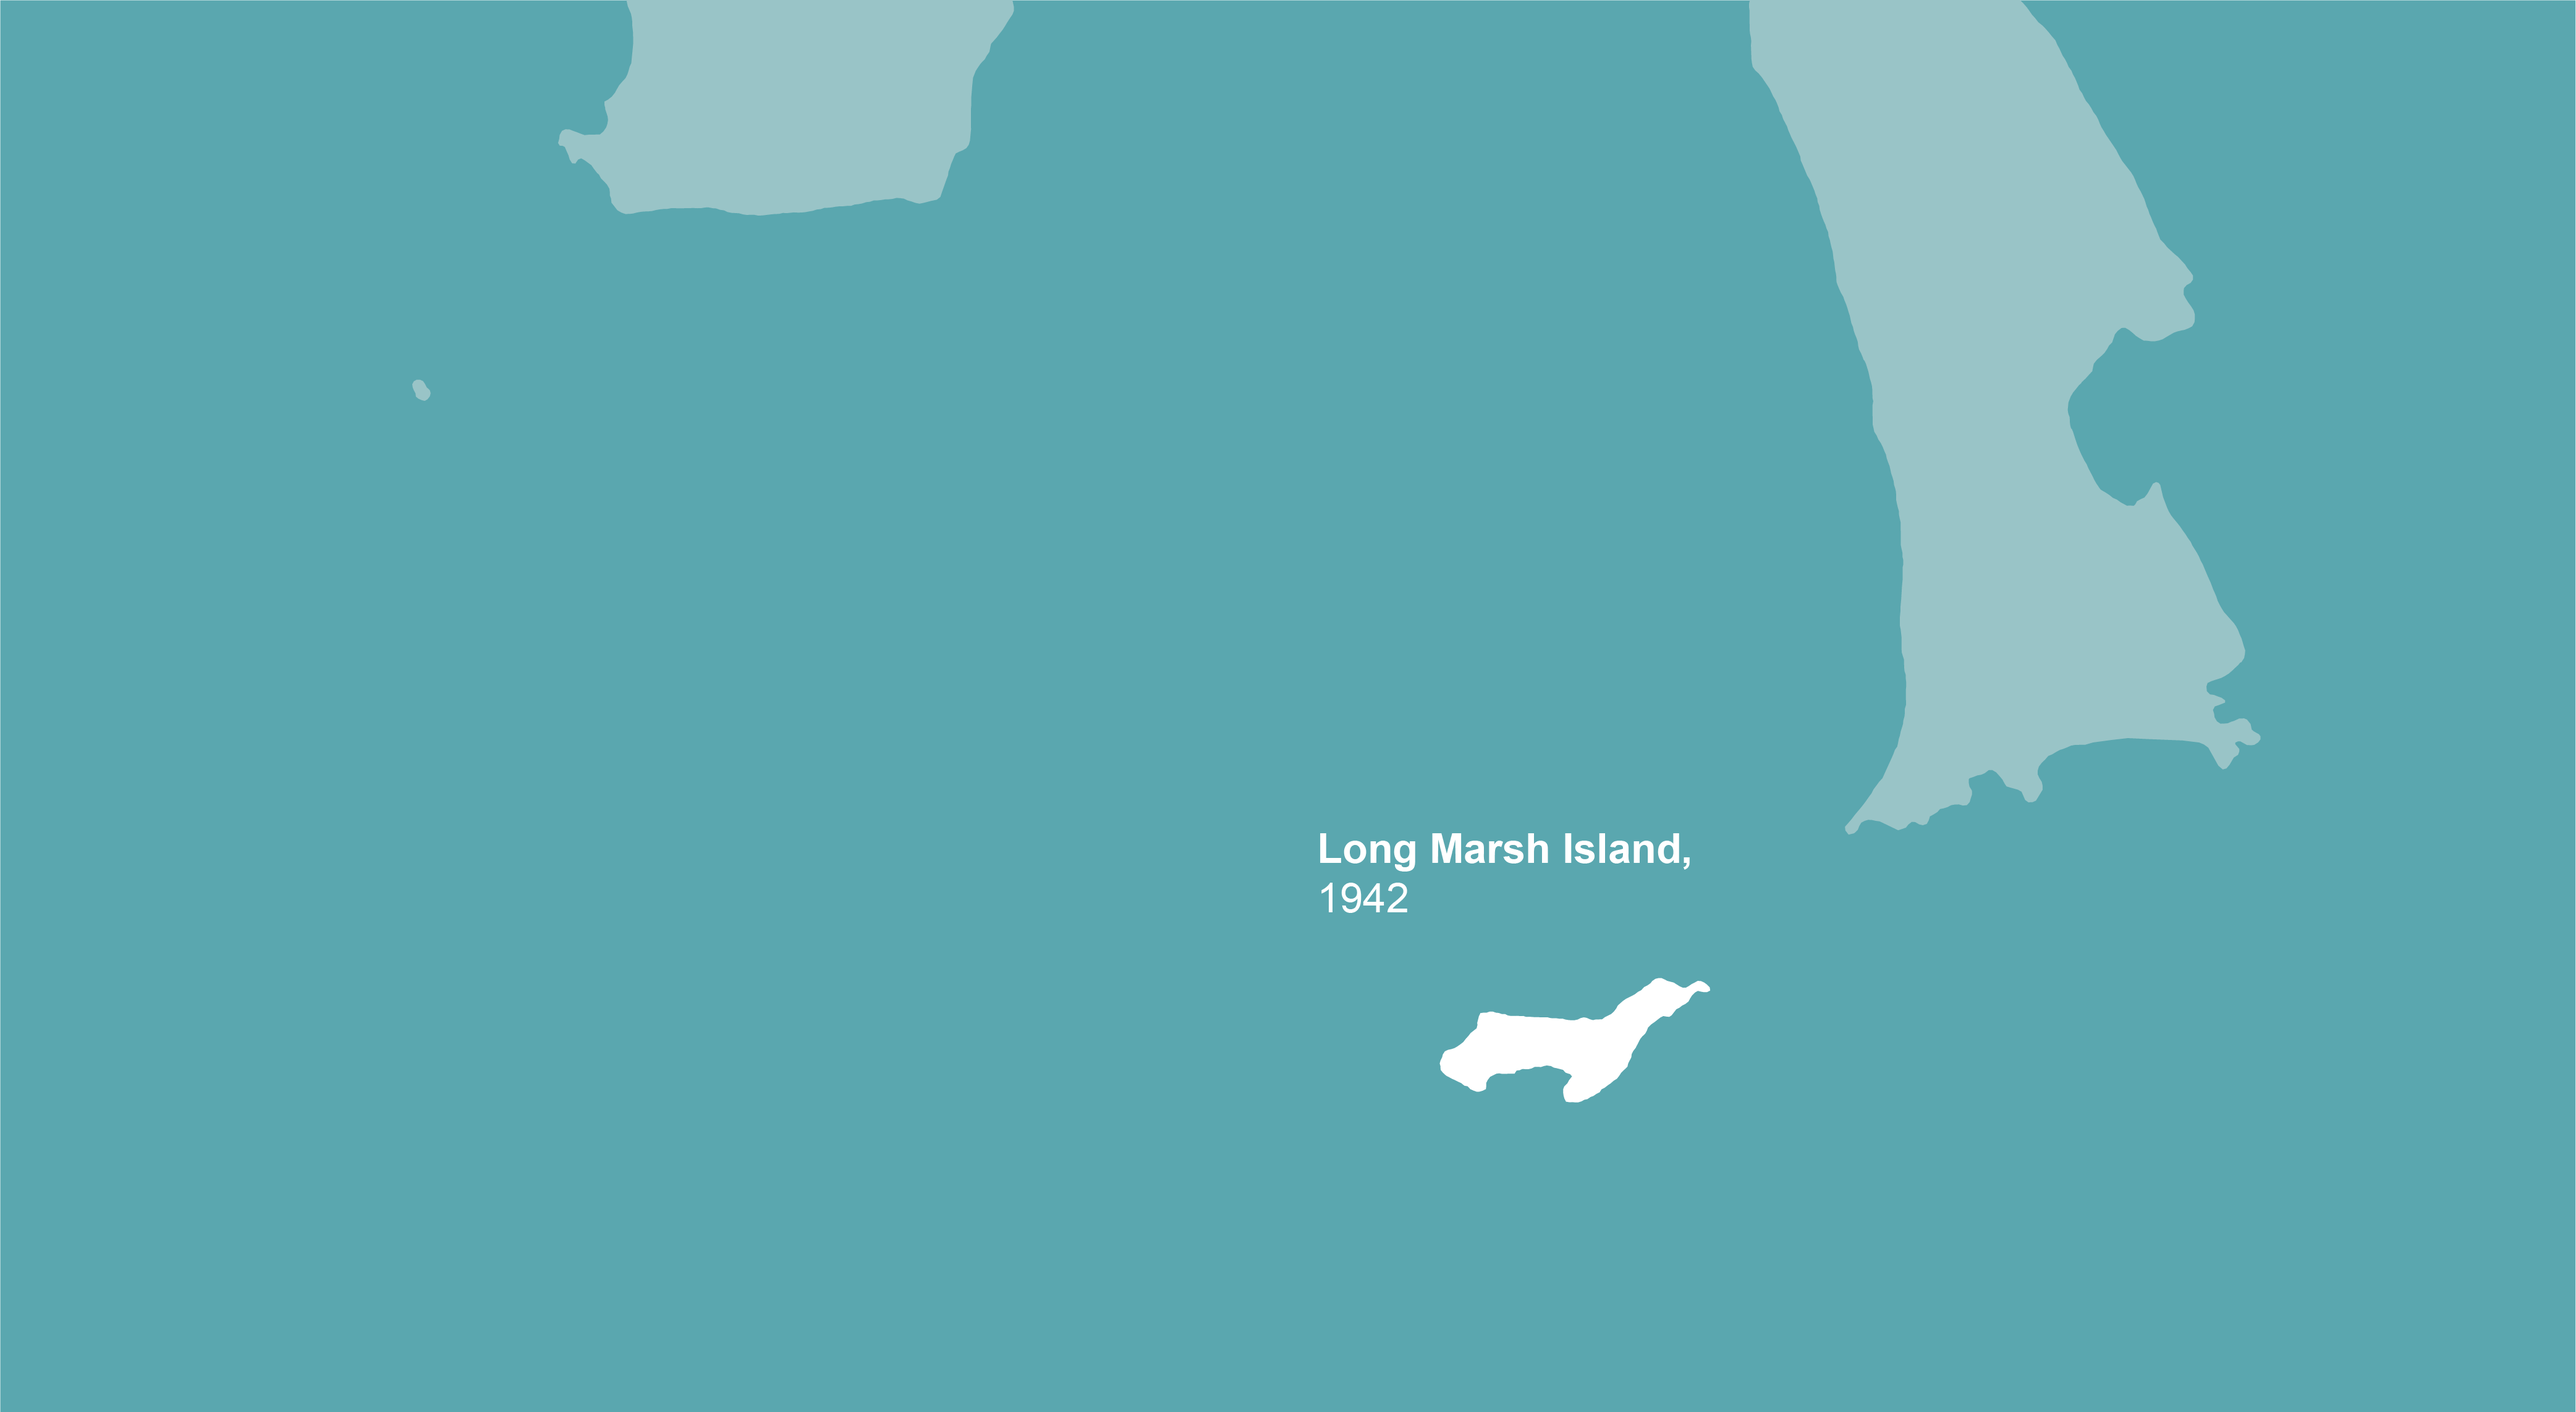
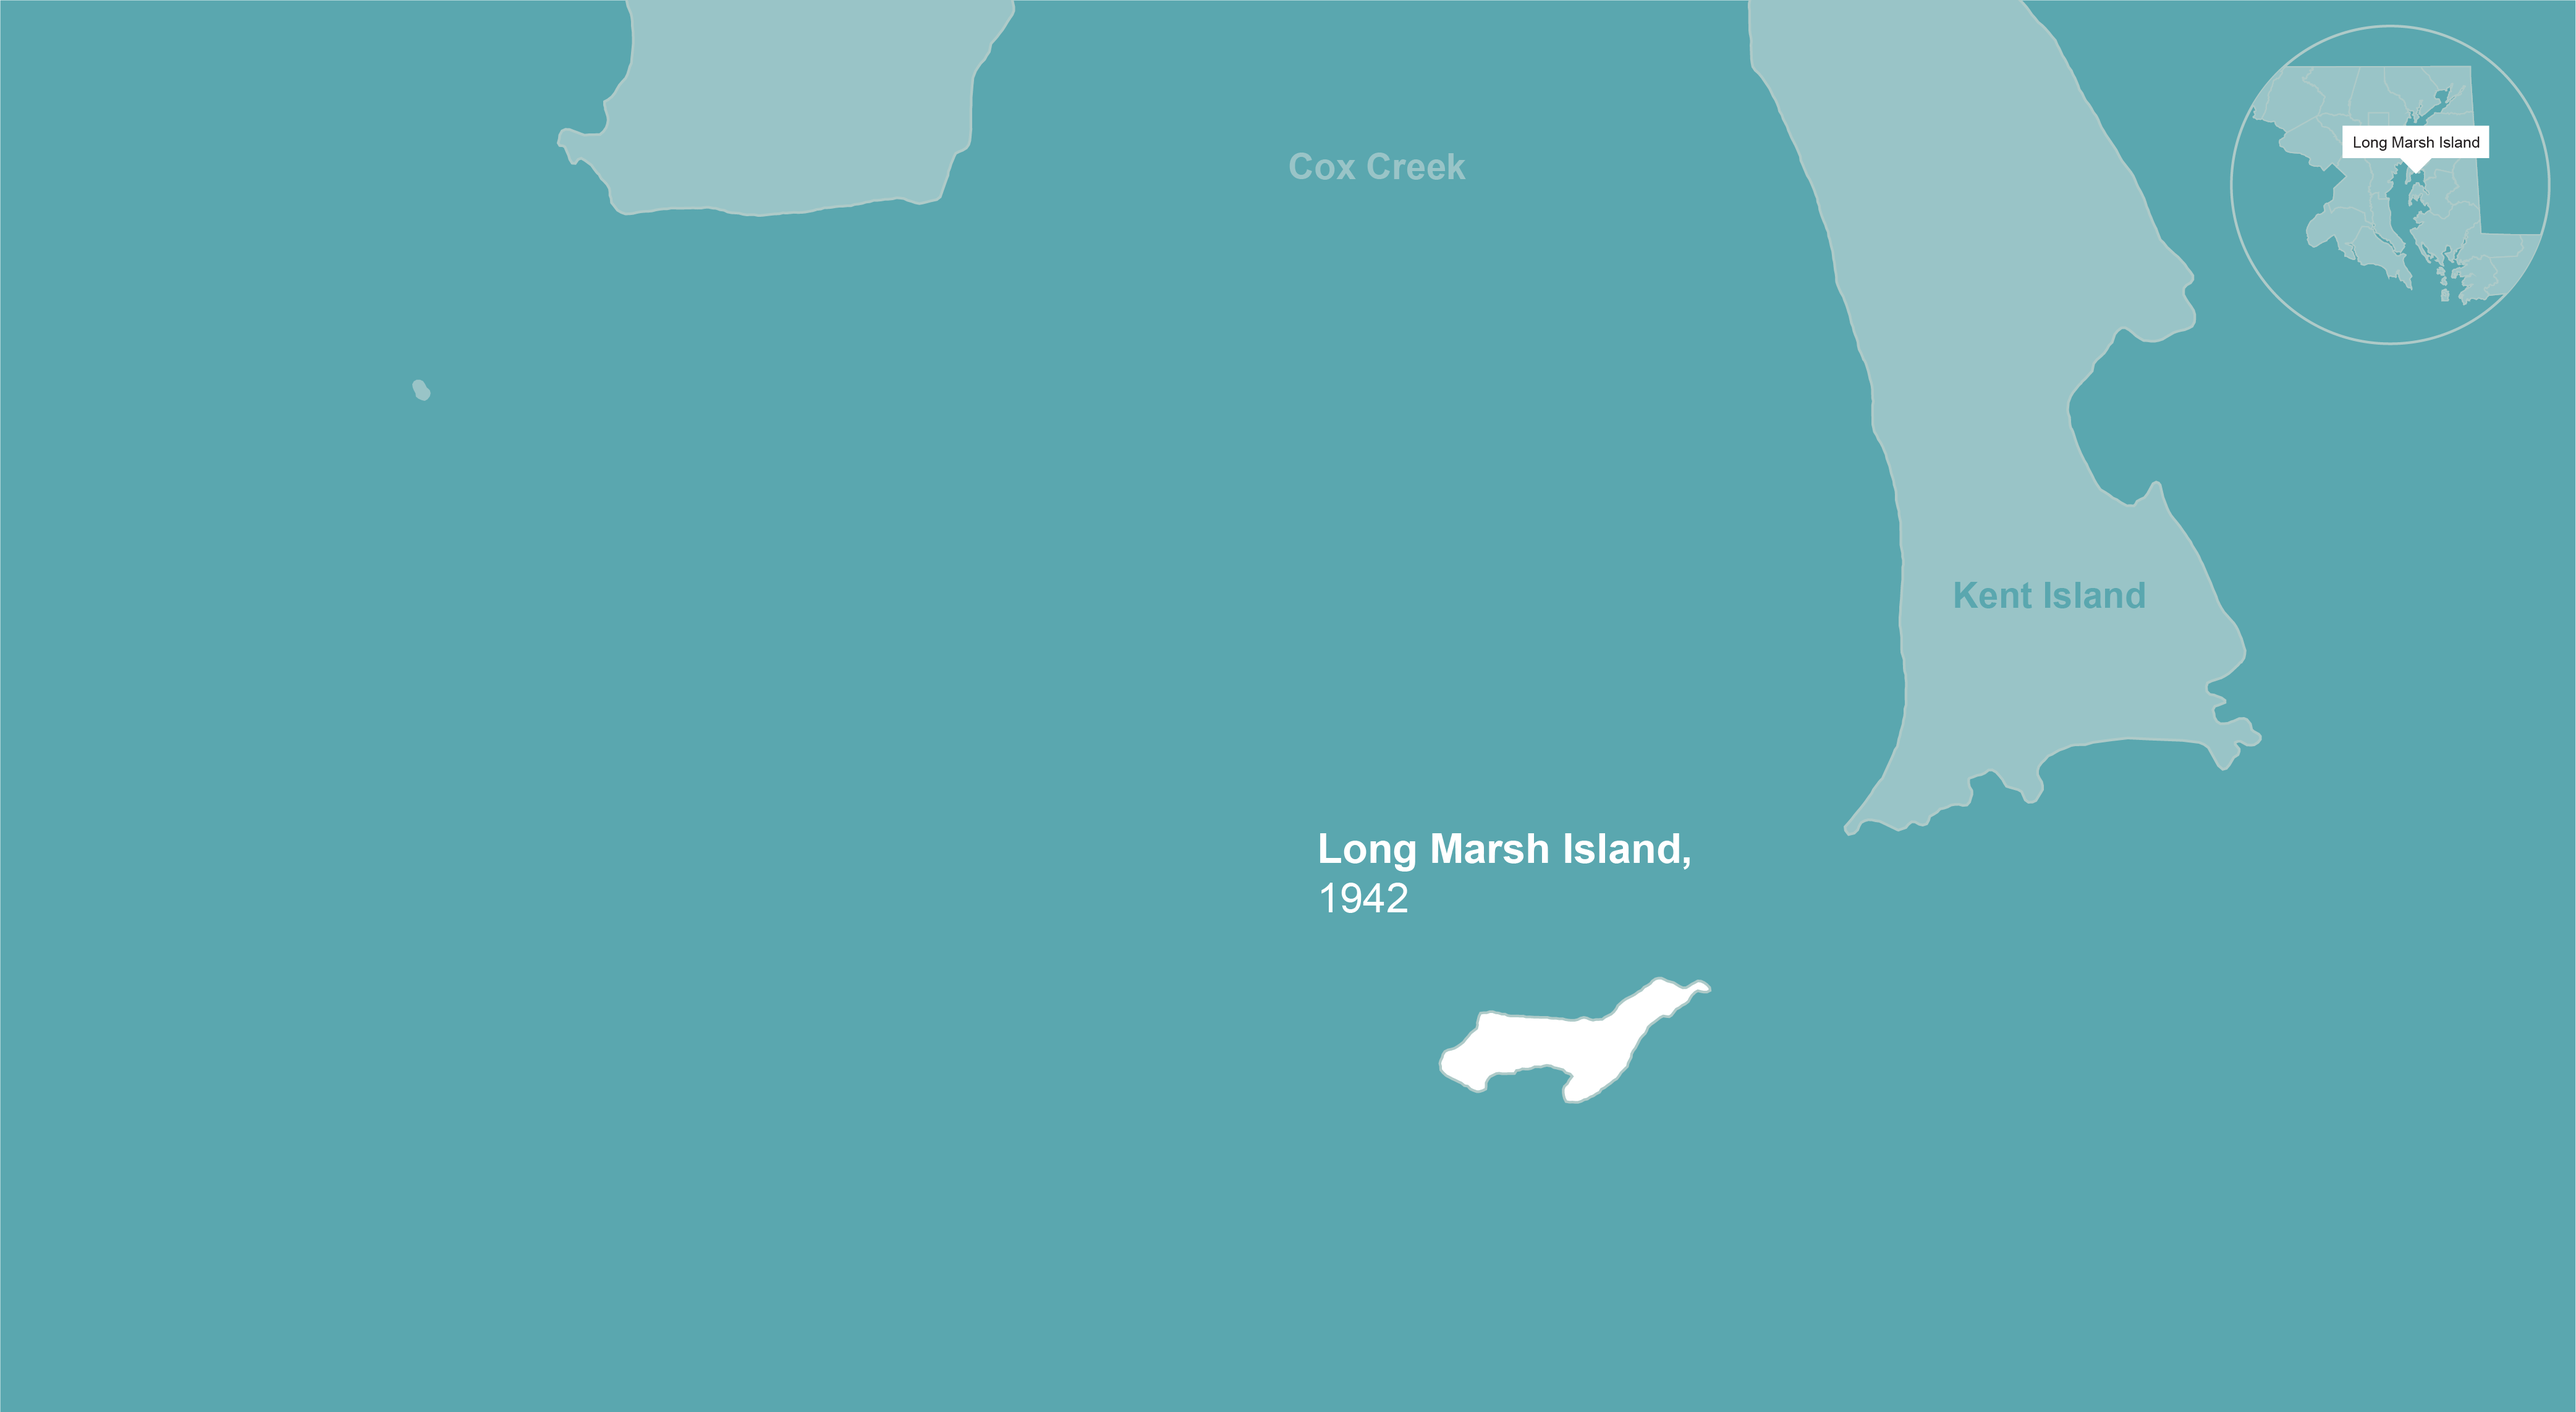
edited maps; added first portion of body copy

Changed region(s): [[0.8733, 0.0311, 0.9981, 0.2174], [0.7486, 0.4038, 0.8421, 0.4348], [0.499, 0.0932, 0.5614, 0.1242]]

diff --git a/index.html b/index.html
@@ -24,7 +24,13 @@
     <img id="head" src="assets/longmarsh1.png">
 
     <div id="container">
-      <p id="title6">These are the Chesapeake Bay's lost islands</p>
+      <div id="body-copy">
+        <p id="title6">These are the lost islands of the Chesapeake.</p>
+        <p class="copy">We’re losing land in the Chesapeake Bay. Sea levels in the Chesapeake have risen a foot in the last century, more than twice the past global average. In Maryland and Virginia, that water isn’t just encroaching on coastline; it’s swallowing islands whole.</p>
+        <p class="copy">The natural erosion that the area experiences began accelerating in the 1850s &mdash; the same time the Industrial Revolution massively increased our output of carbon dioxide and other greenhouse gases, said Kristin Reilly, communications director for the National Wildlife Federation.</p>
+        <p class="copy">Since then, upward of 500 islands have sunk under the waters of the bay. Some are only specks on old maps or lines in early documents dating to the English settlers, and with holes in the historical record, it’s hard to know just how many we’ve lost, Reilly said. Most islands have never housed people, but they have served an essential role in the bay’s ecosystem, where they provide habitats for waterfowl and birds, for example.</p>
+        <p class="copy">Using historical shoreline surveys collected by the Maryland Geological Survey, we can track the disappearance of some of those islands.</p>
+      </div>
     </div>
 
     <script>

diff --git a/styles.css b/styles.css
@@ -50,14 +50,21 @@ body {
   padding-top: 75px;
 }
 
+#body-copy {
+  width: 60%;
+  margin: 50px auto 50px auto;
+  max-width: 550px;
+  font-family: Georgia;
+  font-size: 19px;
+  line-height: 1.4em;
+}
+
 #title6 {
   padding-top: 25px;
   padding-bottom: 25px;
-  width: 60%;
-  margin-left: 20%;
+  margin-bottom: 50px;
   text-align: center;
   font-family: Arial;
   font-size: 20px;
-  border-top: 1px solid #33cccc;
   border-bottom: 1px solid #33cccc;
 }
